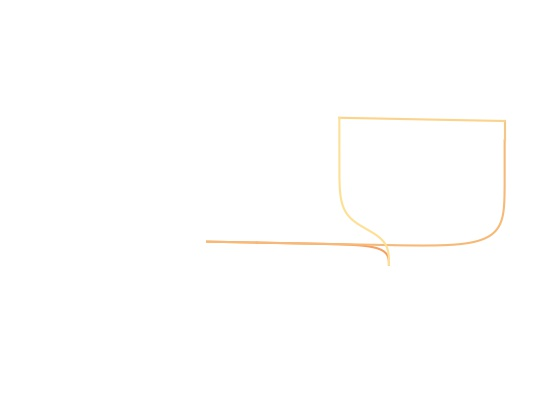
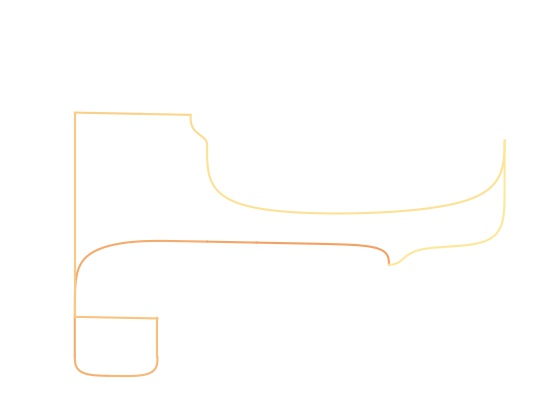
fixed Path

diff --git a/flaskr/static/js/main.js b/flaskr/static/js/main.js
@@ -34,6 +34,7 @@ $(document).ready(function () {
 			disgust: 50,
 			contempt: 50,
 			happiness: 50,
+			sadness: 50,
 			surprise: 50
 		}
 

diff --git a/flaskr/Path.py b/flaskr/Path.py
@@ -88,7 +88,14 @@ def drawPath(map1, G, points):
         c2= (160-101)*i/len(path)+101
 
         #curves on same plot
-        bezier.Curve(normalizedCurve, degree=10).plot(num_pts=256,ax=ax,color=[c0/255.0,c1/255.0,c2/255.0])
+        if (len(normalizedCurve[0])>25):
+            ind=[0]
+            for k in range(1,len(normalizedCurve[0]-1),2):
+                ind.append(k)
+            ind.append(len(normalizedCurve[0])-1)
+            bezier.Curve(normalizedCurve[:,ind], degree=10).plot(num_pts=256,ax=ax,color=[c0/255.0,c1/255.0,c2/255.0])
+        else:
+            bezier.Curve(normalizedCurve, degree=10).plot(num_pts=256,ax=ax,color=[c0/255.0,c1/255.0,c2/255.0])
 
     #Save the image
     plt.axis(xmin=0, ymin=0, xmax=1, ymax=1)
